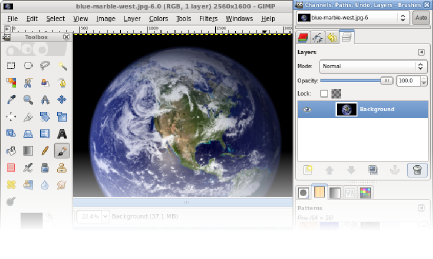
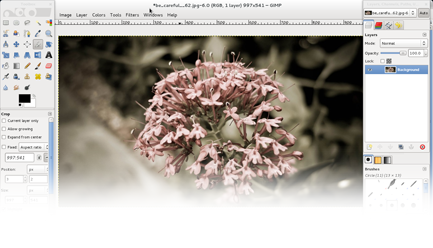
fpo screenshot updated ticket #52    see also BZ#753540    still need to update, at least:  * blender, cheese, empathy, evolution, hamster, ibus, mypaint, pitivi, totem

diff --git a/fedoraproject.org/data/content/features/index.html b/fedoraproject.org/data/content/features/index.html
@@ -361,14 +361,14 @@
                         <div class="clear"></div>
 
                         <div class="grid_8 alpha row">
-                            <img src="${path}/static/images/features/screenshots/oowriter.png" alt="" />
+                            <img src="${path}/static/images/features/screenshots/libre-writer.png" alt="" />
                             <img class="icon" src="${path}/static/images/features/icons/app_libreoffice-writer.png" alt="" />
                             <h4>${_('LibreOffice Writer')}</h4>
                             <p>${_('LibreOffice Writer is a free word processor that allows you to open, create, modify, and print digital documents. It has a built-in PDF exporter, and it can open and save in Microsoft (R) formats as well as open formats.')}</p>
                             <p>${Markup(_('Learn more about LibreOffice on &lt;a href="https://www.libreoffice.org/"&gt;the LibreOffice homepage&lt;/a&gt;.'))}</p>
                         </div>
                         <div class="grid_8 omega">
-                            <img src="${path}/static/images/features/screenshots/ooimpress.png" alt="" />
+                            <img src="${path}/static/images/features/screenshots/libre-impress.png" alt="" />
                             <img class="icon" src="${path}/static/images/features/icons/app_libreoffice-impress.png" alt="" />
                             <h4>${_('LibreOffice Impress')}</h4>
                             <p>${_('Open, create, and edit presentation slideshows with LibreOffice Impress. Add slide transitions and download free slide templates. You  may export presentations as PDF files for easy exchange.')}</p>
